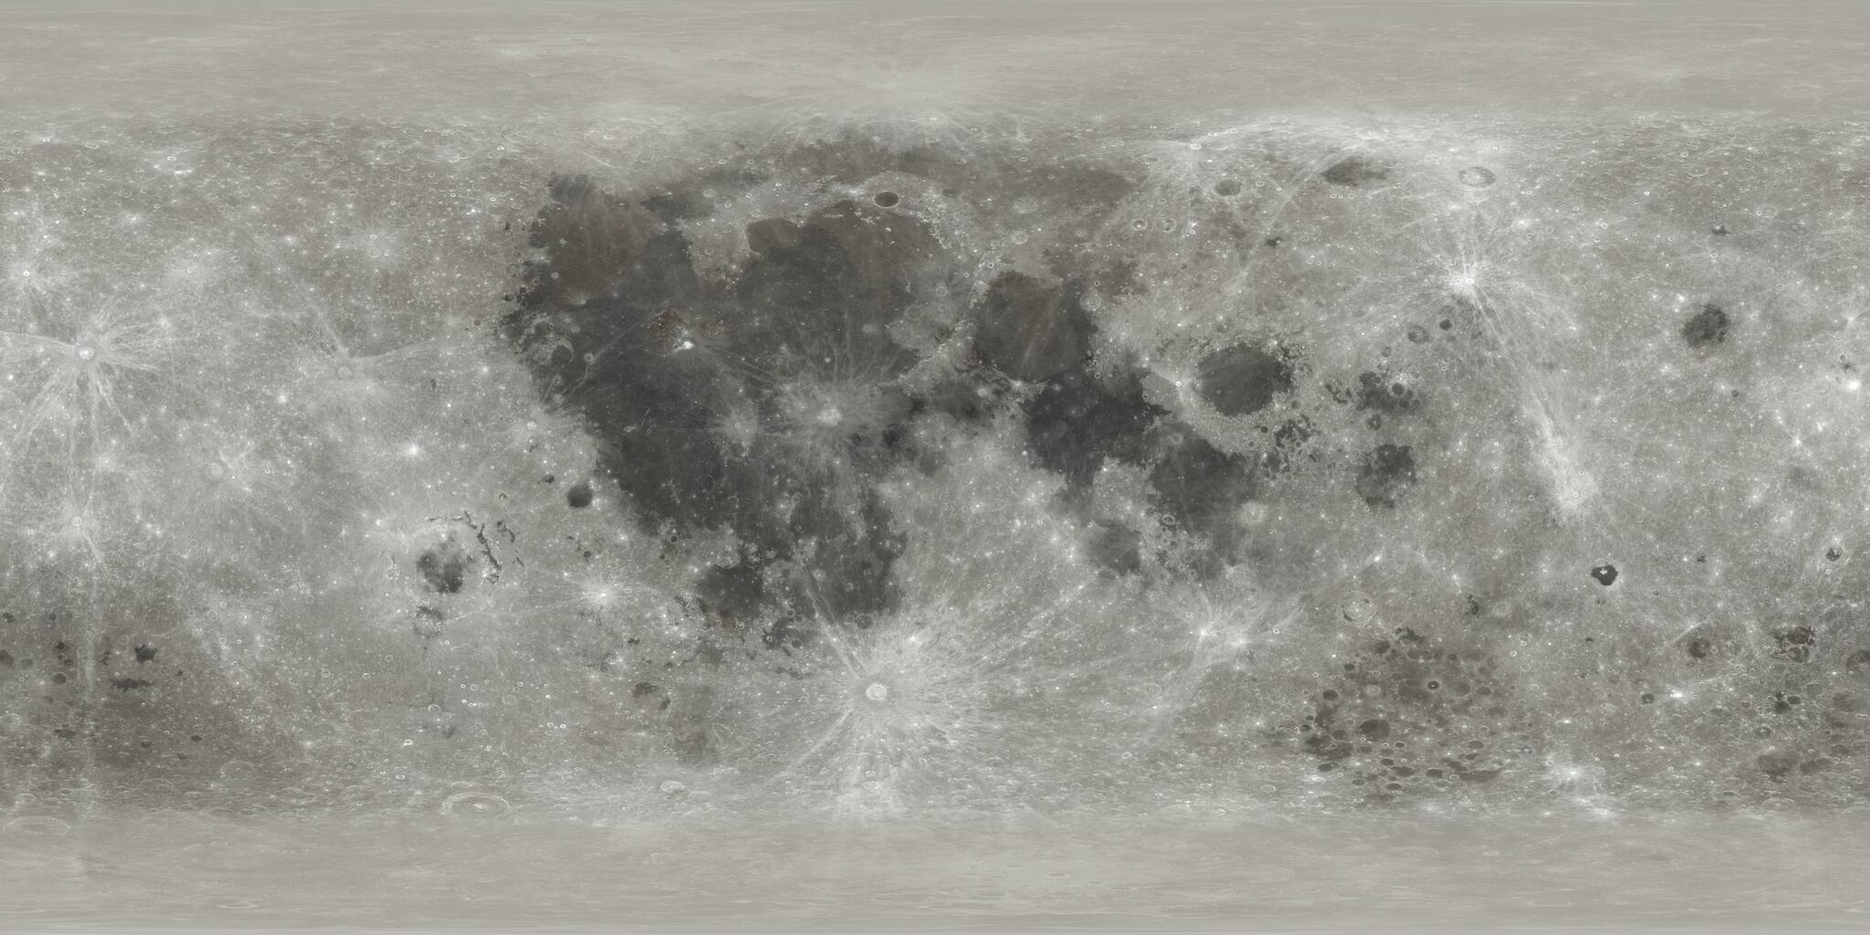
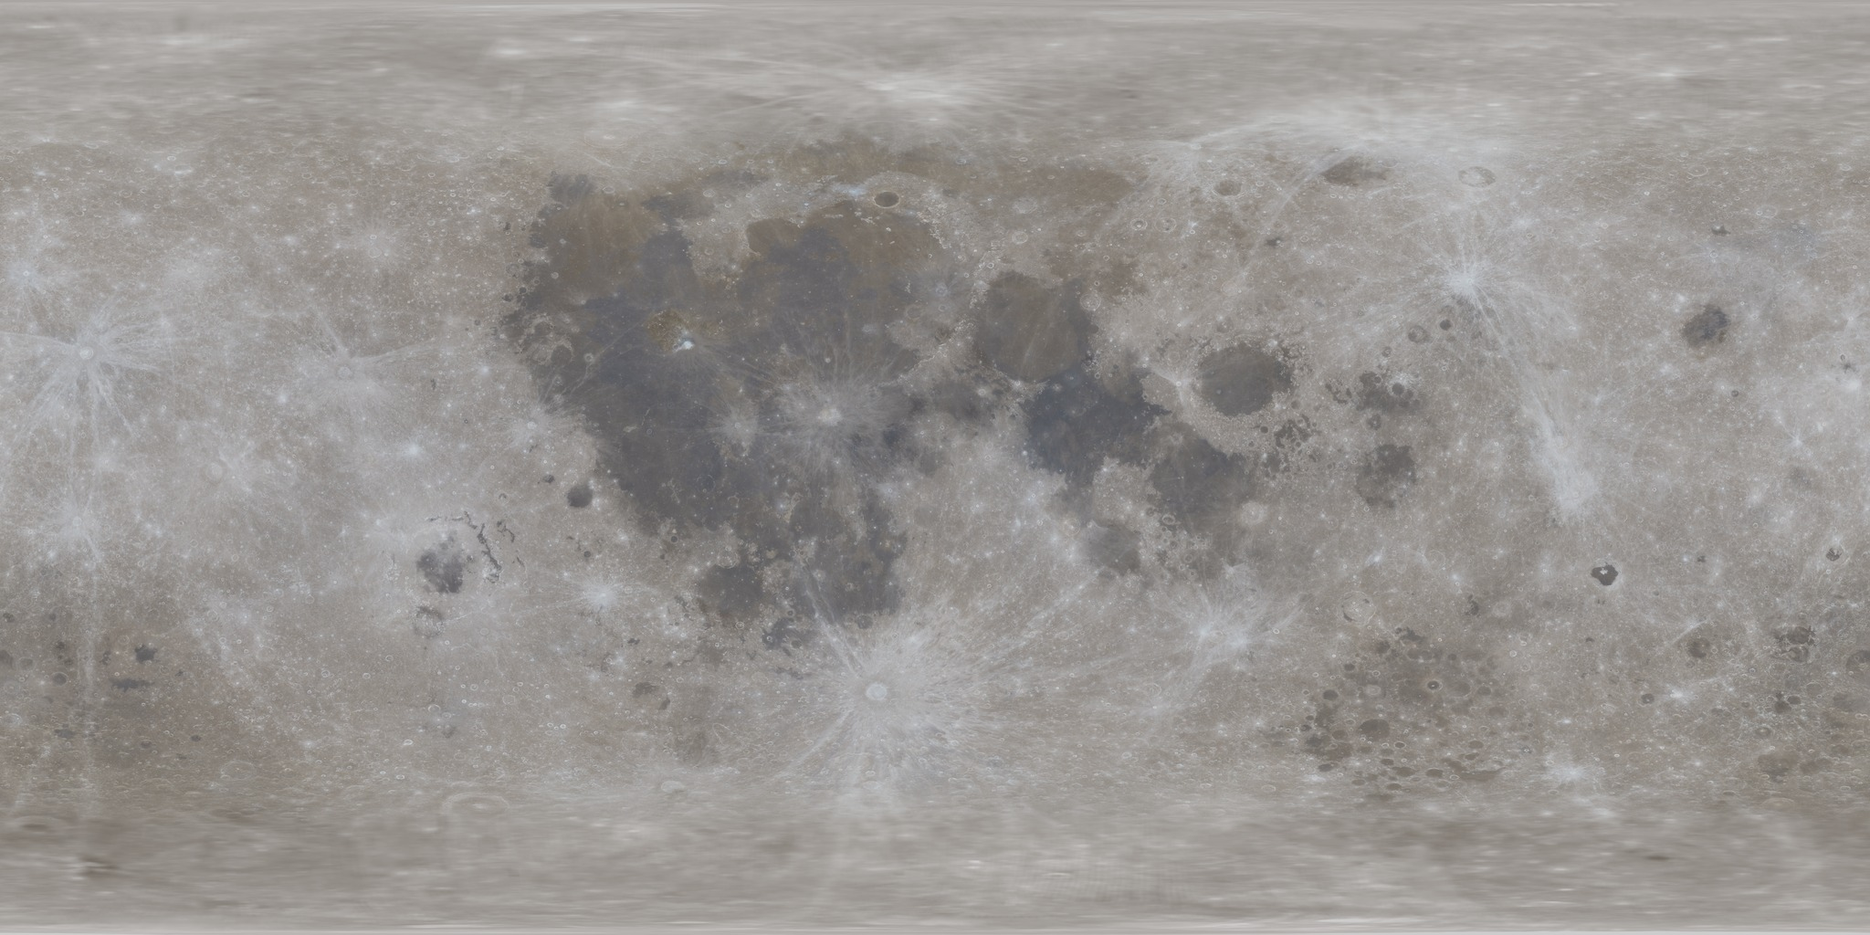
月・火星・水星の8K画像と接近時の読み込みを追加
対応PCの高解像度設定で接近した1天体だけ8Kを使い、離れると解放してメモリ負荷を抑える。月は2025年版に統一し、原本・加工・利用条件を記録。端末判定、切替、解放、失敗時の復帰とキャッシュ更新を検証。

diff --git a/index.html b/index.html
@@ -7097,17 +7097,19 @@
     mars:    "mars-nrm.jpg",
     mercury: "mercury-nrm.jpg",
   };
-  // 通常2K、高解像度4K。対応PCの地球地表だけ8Kにする。
+  // 通常2K、高解像度4K。対応PCでは接近した地表1枚だけ8Kにする。
   // iPadのデスクトップUAも除外。画面幅では判定しない (PCの小窓を含む)。
-  function earth8kCapable(nav, finePointer, maxTextureSize) {
+  function detail8kCapable(nav, finePointer, maxTextureSize) {
     const ua = nav.userAgent || "";
     const handheld = nav.userAgentData?.mobile || /Android|iPhone|iPad|iPod|Mobile/i.test(ua)
       || (/Macintosh|MacIntel/.test(ua + (nav.platform || "")) && nav.maxTouchPoints > 1);
     return !handheld && finePointer && maxTextureSize >= 8192;
   }
-  const earth8kSupported = earth8kCapable(navigator,
+  const detail8kSupported = detail8kCapable(navigator,
     matchMedia("(hover: hover) and (pointer: fine)").matches, gl.getParameter(gl.MAX_TEXTURE_SIZE));
-  let earth8kFailed = false;
+  const DETAIL_TEXTURES = new Set(["earth", "moon", "mars", "mercury"]);
+  const detail8kFailed = new Set();
+  let detailTextureKey = null;
   //
   // 既定は端末によらず 2K。4K は 1枚あたり 4096×2048×4バイト×1.33 (ミップ込み) =
   // 約 45MB で、常駐する 14枚ぶんでは 625MB になる。通る端末でも初回の転送量が
@@ -7123,7 +7125,7 @@
   // 法線図かどうかは接頭辞だけで見る。NORMALS を先に引くと、法線図も持つ天体
   // (月・火星・水星) の地表テクスチャが法線図に化ける
   const texURL = (key) => {
-    if (key === "earth" && texHiRes && earth8kSupported && !earth8kFailed) return TEX_DIR + "8k/earth.jpg";
+    if (key === detailTextureKey && texHiRes && detail8kSupported && !detail8kFailed.has(key)) return TEX_DIR + "8k/" + TEXTURES[key];
     if (key.indexOf("nrm:") === 0) return TEX_DIR + (texHiRes ? "4k/" : "") + NORMALS[key.slice(4)];
     return TEX_DIR + (texHiRes ? "4k/" : "") + (TEXTURES[key] || TEXTURES_EXTRA[key]);
   };
@@ -7146,10 +7148,46 @@
   const texByKey = new Map();
   const texPrevious = new Map(), texRequests = new Map();
   const TEX_FADE_MS = 650;
+  const texLoaded = new Map(), detailBase = new Map();
+  let detailCandidate = null, detailCandidatePx = 0, detailWanted = null, detailWantedAt = 0, detailRetireAt = 0;
+  function noteDetailTexture(body, radiusPx) {
+    if (!texHiRes || !detail8kSupported || !DETAIL_TEXTURES.has(body.key) || detail8kFailed.has(body.key)) return;
+    const threshold = body.key === detailTextureKey ? 80 : 120;
+    if (radiusPx >= threshold && radiusPx > detailCandidatePx) {
+      detailCandidate = body.key; detailCandidatePx = radiusPx;
+    }
+  }
+  function releaseDetailTexture() {
+    const key = detailTextureKey;
+    if (!key) return;
+    detailTextureKey = null;
+    // 完了が遅れた8K画像をGPUへ載せない。
+    texRequests.set(key, (texRequests.get(key) || 0) + 1);
+    const base = detailBase.get(key);
+    if (base) {
+      const current = texByKey.get(key), previous = texPrevious.get(key);
+      if (previous && previous.tex !== base && previous.tex !== current) gl.deleteTexture(previous.tex);
+      texByKey.set(key, base); detailBase.delete(key);
+      texLoaded.set(key, TEX_DIR + "4k/" + TEXTURES[key]);
+      texPrevious.set(key, {tex:current, time:performance.now()});
+      detailRetireAt = performance.now() + TEX_FADE_MS;
+    }
+  }
+  function stepDetailTextures(now) {
+    const wanted = texHiRes && detail8kSupported ? detailCandidate : null;
+    if (detailTextureKey && detailTextureKey !== wanted) releaseDetailTexture();
+    if (wanted !== detailWanted) { detailWanted = wanted; detailWantedAt = now; }
+    // 接近途中の短い通過では取得しない。前の8Kを解放してから次の1枚を読む。
+    if (!wanted || detailTextureKey || now - detailWantedAt < 350 || now < detailRetireAt) return;
+    if (texLoaded.get(wanted) !== TEX_DIR + "4k/" + TEXTURES[wanted] || texPrevious.has(wanted)) return;
+    detailTextureKey = wanted;
+    loadTexInto(texByKey.get(wanted), wanted);
+  }
   function finishTextureFades() {
     const now = performance.now();
     for (const [key, old] of texPrevious) if (now - old.time >= TEX_FADE_MS) {
-      gl.deleteTexture(old.tex); texPrevious.delete(key);
+      if (detailBase.get(key) !== old.tex) gl.deleteTexture(old.tex);
+      texPrevious.delete(key);
     }
   }
   const noTex = gl.createTexture();
@@ -7188,10 +7226,10 @@
     texRequests.set(key, request);
     const img = new Image();
     let url = texURL(key);
-    const retryEarth4k = () => {
+    const retryDetail4k = () => {
       if (!url.includes("/8k/") || texRequests.get(key) !== request) return false;
-      earth8kFailed = true;
-      url = TEX_DIR + "4k/earth.jpg";
+      detail8kFailed.add(key);
+      url = TEX_DIR + "4k/" + TEXTURES[key];
       img.src = url;
       return true;
     };
@@ -7211,7 +7249,7 @@
         if (url.includes("/8k/") && gl.getError() !== gl.NO_ERROR) throw new Error("8K upload failed");
       } catch (e) {
         if (surface) gl.deleteTexture(next);
-        if (retryEarth4k()) return;
+        if (retryDetail4k()) return;
         texSettled(); texWarn(key, e.message);
         return;
       }
@@ -7221,7 +7259,7 @@
         gl.generateMipmap(gl.TEXTURE_2D);
         if (url.includes("/8k/") && gl.getError() !== gl.NO_ERROR) {
           gl.deleteTexture(next);
-          if (retryEarth4k()) return;
+          if (retryDetail4k()) return;
           texSettled(); return;
         }
         gl.texParameteri(gl.TEXTURE_2D, gl.TEXTURE_MIN_FILTER, gl.LINEAR_MIPMAP_LINEAR);
@@ -7229,7 +7267,9 @@
       }
       if (surface) {
         const old = texPrevious.get(key);
-        if (old) gl.deleteTexture(old.tex);
+        if (old && detailBase.get(key) !== old.tex) gl.deleteTexture(old.tex);
+        if (url.includes("/8k/")) detailBase.set(key, texByKey.get(key) || tex);
+        texLoaded.set(key, url);
         texPrevious.set(key, { tex: texByKey.get(key) || tex, time: performance.now() });
         texByKey.set(key, next);
       }
@@ -7237,7 +7277,7 @@
     };
     // tex/ を index.html と一緒に置き忘れた場合にここへ来る
     img.onerror = () => {
-      if (retryEarth4k()) return;
+      if (retryDetail4k()) return;
       texSettled();
       if (texRequests.get(key) === request) texWarn(key, "取得できませんでした");
     };
@@ -7272,6 +7312,7 @@
   // 解像度を切り替えたときの読み直し。差し替わるまでは前の解像度で描き続ける
   // (仮色へ戻すと、切り替えのたびに全天体が一瞬グレーになる)
   function reloadTextures() {
+    releaseDetailTexture();
     for (const [key, tex] of texByKey) loadTexInto(tex, key);
     loadTexInto(cloudTex, "cloud");
     loadTexInto(nightTex, "night");
@@ -8900,6 +8941,8 @@
       // shine は暗い側を照らすもの {dir, col} (地球照)。月以外は null
       draw({ body, model, mvp, sunPosition, radiusPx, eclipse, ext = null, shine = null }) {
         if (!inPass) throw new Error("bodyRenderer: beginPass より前に draw が呼ばれました");
+        if (mvp[15] > 0 && Math.abs(mvp[12] / mvp[15]) < 1 + 2 * radiusPx / W &&
+            Math.abs(mvp[13] / mvp[15]) < 1 + 2 * radiusPx / H) noteDetailTexture(body, radiusPx);
         const tx = texByKey.get(body.key);
         const old = texPrevious.get(body.key);
         const fade = old ? Math.min(1, Math.max(0, (performance.now() - old.time) / TEX_FADE_MS)) : 1;
@@ -14202,7 +14245,9 @@
     tourRideCam();     // ガイドツアー: 探査機視点のステップはカメラを直接置く
     introStep(now / 1000);   // 初回の導入: カメラを寄せる (流していなければ素通り)
     perfLap("更新");
+    detailCandidate = null; detailCandidatePx = 0;
     render(now / 1000);
+    stepDetailTextures(now);
     perfLap("描画(他)");
     bloomPass();          // 明るいところの滲み (シーンを描き終えてから)
     perfLap("Bloom");

diff --git a/src/gl/resources.js b/src/gl/resources.js
@@ -1,10 +1,46 @@
   const texByKey = new Map();
   const texPrevious = new Map(), texRequests = new Map();
   const TEX_FADE_MS = 650;
+  const texLoaded = new Map(), detailBase = new Map();
+  let detailCandidate = null, detailCandidatePx = 0, detailWanted = null, detailWantedAt = 0, detailRetireAt = 0;
+  function noteDetailTexture(body, radiusPx) {
+    if (!texHiRes || !detail8kSupported || !DETAIL_TEXTURES.has(body.key) || detail8kFailed.has(body.key)) return;
+    const threshold = body.key === detailTextureKey ? 80 : 120;
+    if (radiusPx >= threshold && radiusPx > detailCandidatePx) {
+      detailCandidate = body.key; detailCandidatePx = radiusPx;
+    }
+  }
+  function releaseDetailTexture() {
+    const key = detailTextureKey;
+    if (!key) return;
+    detailTextureKey = null;
+    // 完了が遅れた8K画像をGPUへ載せない。
+    texRequests.set(key, (texRequests.get(key) || 0) + 1);
+    const base = detailBase.get(key);
+    if (base) {
+      const current = texByKey.get(key), previous = texPrevious.get(key);
+      if (previous && previous.tex !== base && previous.tex !== current) gl.deleteTexture(previous.tex);
+      texByKey.set(key, base); detailBase.delete(key);
+      texLoaded.set(key, TEX_DIR + "4k/" + TEXTURES[key]);
+      texPrevious.set(key, {tex:current, time:performance.now()});
+      detailRetireAt = performance.now() + TEX_FADE_MS;
+    }
+  }
+  function stepDetailTextures(now) {
+    const wanted = texHiRes && detail8kSupported ? detailCandidate : null;
+    if (detailTextureKey && detailTextureKey !== wanted) releaseDetailTexture();
+    if (wanted !== detailWanted) { detailWanted = wanted; detailWantedAt = now; }
+    // 接近途中の短い通過では取得しない。前の8Kを解放してから次の1枚を読む。
+    if (!wanted || detailTextureKey || now - detailWantedAt < 350 || now < detailRetireAt) return;
+    if (texLoaded.get(wanted) !== TEX_DIR + "4k/" + TEXTURES[wanted] || texPrevious.has(wanted)) return;
+    detailTextureKey = wanted;
+    loadTexInto(texByKey.get(wanted), wanted);
+  }
   function finishTextureFades() {
     const now = performance.now();
     for (const [key, old] of texPrevious) if (now - old.time >= TEX_FADE_MS) {
-      gl.deleteTexture(old.tex); texPrevious.delete(key);
+      if (detailBase.get(key) !== old.tex) gl.deleteTexture(old.tex);
+      texPrevious.delete(key);
     }
   }
   const noTex = gl.createTexture();
@@ -43,10 +79,10 @@
     texRequests.set(key, request);
     const img = new Image();
     let url = texURL(key);
-    const retryEarth4k = () => {
+    const retryDetail4k = () => {
       if (!url.includes("/8k/") || texRequests.get(key) !== request) return false;
-      earth8kFailed = true;
-      url = TEX_DIR + "4k/earth.jpg";
+      detail8kFailed.add(key);
+      url = TEX_DIR + "4k/" + TEXTURES[key];
       img.src = url;
       return true;
     };
@@ -66,7 +102,7 @@
         if (url.includes("/8k/") && gl.getError() !== gl.NO_ERROR) throw new Error("8K upload failed");
       } catch (e) {
         if (surface) gl.deleteTexture(next);
-        if (retryEarth4k()) return;
+        if (retryDetail4k()) return;
         texSettled(); texWarn(key, e.message);
         return;
       }
@@ -76,7 +112,7 @@
         gl.generateMipmap(gl.TEXTURE_2D);
         if (url.includes("/8k/") && gl.getError() !== gl.NO_ERROR) {
           gl.deleteTexture(next);
-          if (retryEarth4k()) return;
+          if (retryDetail4k()) return;
           texSettled(); return;
         }
         gl.texParameteri(gl.TEXTURE_2D, gl.TEXTURE_MIN_FILTER, gl.LINEAR_MIPMAP_LINEAR);
@@ -84,7 +120,9 @@
       }
       if (surface) {
         const old = texPrevious.get(key);
-        if (old) gl.deleteTexture(old.tex);
+        if (old && detailBase.get(key) !== old.tex) gl.deleteTexture(old.tex);
+        if (url.includes("/8k/")) detailBase.set(key, texByKey.get(key) || tex);
+        texLoaded.set(key, url);
         texPrevious.set(key, { tex: texByKey.get(key) || tex, time: performance.now() });
         texByKey.set(key, next);
       }
@@ -92,7 +130,7 @@
     };
     // tex/ を index.html と一緒に置き忘れた場合にここへ来る
     img.onerror = () => {
-      if (retryEarth4k()) return;
+      if (retryDetail4k()) return;
       texSettled();
       if (texRequests.get(key) === request) texWarn(key, "取得できませんでした");
     };
@@ -127,6 +165,7 @@
   // 解像度を切り替えたときの読み直し。差し替わるまでは前の解像度で描き続ける
   // (仮色へ戻すと、切り替えのたびに全天体が一瞬グレーになる)
   function reloadTextures() {
+    releaseDetailTexture();
     for (const [key, tex] of texByKey) loadTexInto(tex, key);
     loadTexInto(cloudTex, "cloud");
     loadTexInto(nightTex, "night");

diff --git a/src/data/textures.js b/src/data/textures.js
@@ -49,17 +49,19 @@
     mars:    "mars-nrm.jpg",
     mercury: "mercury-nrm.jpg",
   };
-  // 通常2K、高解像度4K。対応PCの地球地表だけ8Kにする。
+  // 通常2K、高解像度4K。対応PCでは接近した地表1枚だけ8Kにする。
   // iPadのデスクトップUAも除外。画面幅では判定しない (PCの小窓を含む)。
-  function earth8kCapable(nav, finePointer, maxTextureSize) {
+  function detail8kCapable(nav, finePointer, maxTextureSize) {
     const ua = nav.userAgent || "";
     const handheld = nav.userAgentData?.mobile || /Android|iPhone|iPad|iPod|Mobile/i.test(ua)
       || (/Macintosh|MacIntel/.test(ua + (nav.platform || "")) && nav.maxTouchPoints > 1);
     return !handheld && finePointer && maxTextureSize >= 8192;
   }
-  const earth8kSupported = earth8kCapable(navigator,
+  const detail8kSupported = detail8kCapable(navigator,
     matchMedia("(hover: hover) and (pointer: fine)").matches, gl.getParameter(gl.MAX_TEXTURE_SIZE));
-  let earth8kFailed = false;
+  const DETAIL_TEXTURES = new Set(["earth", "moon", "mars", "mercury"]);
+  const detail8kFailed = new Set();
+  let detailTextureKey = null;
   //
   // 既定は端末によらず 2K。4K は 1枚あたり 4096×2048×4バイト×1.33 (ミップ込み) =
   // 約 45MB で、常駐する 14枚ぶんでは 625MB になる。通る端末でも初回の転送量が
@@ -75,7 +77,7 @@
   // 法線図かどうかは接頭辞だけで見る。NORMALS を先に引くと、法線図も持つ天体
   // (月・火星・水星) の地表テクスチャが法線図に化ける
   const texURL = (key) => {
-    if (key === "earth" && texHiRes && earth8kSupported && !earth8kFailed) return TEX_DIR + "8k/earth.jpg";
+    if (key === detailTextureKey && texHiRes && detail8kSupported && !detail8kFailed.has(key)) return TEX_DIR + "8k/" + TEXTURES[key];
     if (key.indexOf("nrm:") === 0) return TEX_DIR + (texHiRes ? "4k/" : "") + NORMALS[key.slice(4)];
     return TEX_DIR + (texHiRes ? "4k/" : "") + (TEXTURES[key] || TEXTURES_EXTRA[key]);
   };

diff --git a/src/render/body.js b/src/render/body.js
@@ -338,6 +338,8 @@
       // shine は暗い側を照らすもの {dir, col} (地球照)。月以外は null
       draw({ body, model, mvp, sunPosition, radiusPx, eclipse, ext = null, shine = null }) {
         if (!inPass) throw new Error("bodyRenderer: beginPass より前に draw が呼ばれました");
+        if (mvp[15] > 0 && Math.abs(mvp[12] / mvp[15]) < 1 + 2 * radiusPx / W &&
+            Math.abs(mvp[13] / mvp[15]) < 1 + 2 * radiusPx / H) noteDetailTexture(body, radiusPx);
         const tx = texByKey.get(body.key);
         const old = texPrevious.get(body.key);
         const fade = old ? Math.min(1, Math.max(0, (performance.now() - old.time) / TEX_FADE_MS)) : 1;

diff --git a/src/runtime/frame.js b/src/runtime/frame.js
@@ -565,7 +565,9 @@
     tourRideCam();     // ガイドツアー: 探査機視点のステップはカメラを直接置く
     introStep(now / 1000);   // 初回の導入: カメラを寄せる (流していなければ素通り)
     perfLap("更新");
+    detailCandidate = null; detailCandidatePx = 0;
     render(now / 1000);
+    stepDetailTextures(now);
     perfLap("描画(他)");
     bloomPass();          // 明るいところの滲み (シーンを描き終えてから)
     perfLap("Bloom");

diff --git a/sw.js b/sw.js
@@ -20,7 +20,7 @@
 //   上げると古い組を丸ごと捨てるので、差し替えた1枚だけでなく全部を引き直す
 //   ことになる (画像の差し替えは滅多に無いので、この単純さを採る)。
 
-const TEX_VER = 1;
+const TEX_VER = 2;
 const TEX_CACHE = "sidereum-tex-" + TEX_VER;
 const SHELL_CACHE = "sidereum-shell";
 

diff --git a/tools/prepare-detail-textures.py b/tools/prepare-detail-textures.py
@@ -1,0 +1,20 @@
+#!/usr/bin/env python3
+"""Prepare NASA/USGS source maps. Requires Pillow; sources and hashes: ASSET_RIGHTS.md.
+Usage: python3 tools/prepare-detail-textures.py MOON_2025_8K_TIFF MARS_1KM_JPG MERCURY_665M_TIFF
+"""
+from pathlib import Path
+import sys
+from PIL import Image, ImageStat
+Image.MAX_IMAGE_PIXELS = 400_000_000  # Trusted USGS Mercury map: 23040 x 11520
+root = Path(__file__).resolve().parents[1] / 'tex'
+moon, mars, mercury = map(Path, sys.argv[1:4])
+(root / '8k').mkdir(exist_ok=True)
+# NASA 16bit sRGB TIFF -> 8bit RGB, exposure matched to the app's existing lighting.
+im = Image.open(moon).convert('RGB').point([round(i * .80) for i in range(256)] * 3)
+for width, folder in [(2048, root), (4096, root/'4k'), (8192, root/'8k')]:
+    im.resize((width, width//2), Image.Resampling.LANCZOS).save(folder/'moon.jpg', quality=92)
+Image.open(mars).convert('RGB').resize((8192,4096), Image.Resampling.LANCZOS).save(root/'8k/mars.jpg', quality=92)
+# Keep Mercury's existing monochrome appearance, with mean brightness matched to 4K.
+im = Image.open(mercury).convert('L').resize((8192,4096), Image.Resampling.LANCZOS)
+gain = ImageStat.Stat(Image.open(root/'4k/mercury.jpg').convert('L')).mean[0] / ImageStat.Stat(im).mean[0]
+im.point([min(255, round(i * gain)) for i in range(256)]).save(root/'8k/mercury.jpg', quality=92)

diff --git a/ASSET_RIGHTS.md b/ASSET_RIGHTS.md
@@ -25,7 +25,7 @@
 | earth | [Blue Marble 57752](https://eoimages.gsfc.nasa.gov/images/imagerecords/57000/57752/land_shallow_topo_8192.tif) | NASA Earth Observatory; Reto Stöckli (NASA/GSFC), Robert Simmon | NASA画像利用方針 | 縮小、JPEG化 |
 | earth-clouds | [Blue Marble clouds 57747](https://eoimages.gsfc.nasa.gov/images/imagerecords/57000/57747/cloud_combined_8192.tif) | NASA Earth Observatory | NASA画像利用方針 | 雲マスク、縮小、JPEG化 |
 | earth-night | [Black Marble 2016 VIIRS DNB 144898](https://eoimages.gsfc.nasa.gov/images/imagerecords/144000/144898/BlackMarble_2016_3km_geo.tif) | NASA Earth Observatory | NASA画像利用方針 | グレースケール化、黒レベル20%除去、縮小、JPEG化 |
-| moon | [LROC WAC CGI Moon Kit (2019)](https://svs.gsfc.nasa.gov/4720/) | NASA/GSFC/Arizona State University; NASA Scientific Visualization Studio | SVS公開利用方針 | 縮小、JPEG化 |
+| moon | [LROC WAC CGI Moon Kit (2025)](https://svs.gsfc.nasa.gov/4720/) | NASA/GSFC/Arizona State University; NASA Scientific Visualization Studio | SVS公開利用方針 | 縮小、JPEG化 |
 | mars | [Viking MDIM 2.1 color mosaic](https://astrogeology.usgs.gov/search/map/mars_viking_colorized_global_mosaic_232m) | USGS / NASA Ames | 製品明記: Public domain / Use None | 1km版を縮小、JPEG化 |
 | jupiter | [Cassini PIA07782](https://science.nasa.gov/resource/cassinis-best-maps-of-jupiter-cylindrical-map-2/) | NASA/JPL/Space Science Institute | JPL画像利用方針・NASA画像利用方針 | 縮小/拡大、JPEG化 |
 | io | [Galileo SSI/Voyager merged 1km](https://astrogeology.usgs.gov/search/map/io_galileo_ssi_voyager_color_merged_global_mosaic_1km) | USGS / NASA/JPL | 製品明記: Public domain / Use None | 縮小、JPEG化 |
@@ -77,3 +77,11 @@
 ### 地球の8K画像 (2026-09-22)
 
[1 lines of base64/hex data omitted]
+
+### 月・火星・水星の8K画像 (2026-09-22)
+
+既存製品ページの利用条件・クレジットを継承します。月の2K/4Kも2025年版に更新しました。加工手順は `tools/prepare-detail-textures.py` に収録しています。
+
[3 lines of base64/hex data omitted]

diff --git a/README.md b/README.md
@@ -202,6 +202,10 @@ ON にしたときは、**先に適用してから「保存してよいか」を
 
 恒星の説明には、IAU WGSN等で確認した事実を用いた短文を収録しています。参照先の文章の転載許諾を意味するものではありません。ベガの観測写真はChuck AyoubによるCC0作品です。[記録](tex/stars/CREDITS.md)を参照してください。
 
-### PCでの地球8K表示
+### PCでの8K表示
 
-高解像度ON時、マウス操作に対応したPCでGPUの最大テクスチャサイズが8192以上なら、地球の地表だけ `tex/8k/earth.jpg` (8192×4096) を使用します。スマートフォン・タブレット (デスクトップUAのiPadを含む) は4K、通常設定は全端末2Kです。雲・夜景・他天体は高解像度でも4Kです。8Kの取得・GPUへの転送に失敗した場合、そのセッションは地球も4Kに戻します。地表1枚の8K化でGPUメモリはミップ込み約128MiB増加します。新しいURLを追加したため既存画像のキャッシュは維持します。
+高解像度ON時、マウス操作に対応したPCでGPUの最大テクスチャサイズが8192以上なら、地球・月・火星・水星の地表を接近時だけ8K (8192×4096) に切り替えます。画面内の半径120px以上で350ms留まると取得し、80px未満に離れると4Kへ戻します。対象が複数ある場合は最も大きく見える1天体だけ使用します。4Kを控えとして保持し、離れた天体の8Kはフェード終了後にGPUから解放します。
+
+スマートフォン・タブレット (デスクトップUAのiPadを含む) は4K、通常設定は全端末2Kです。雲・夜景・法線図・他天体は高解像度でも4Kです。8Kの取得・GPUへの転送に失敗した場合、その天体はセッション中4Kを使います。保持する8K画像1枚はミップ込みで最大約171MiBのGPUメモリを使用します。
+
+月はNASA CGI Moon Kitの2025年版で2K・4K・8Kを統一しています。元画像・利用条件・加工内容は [素材の記録](ASSET_RIGHTS.md) と [マニフェスト](licenses/asset-manifest.json) を参照してください。
